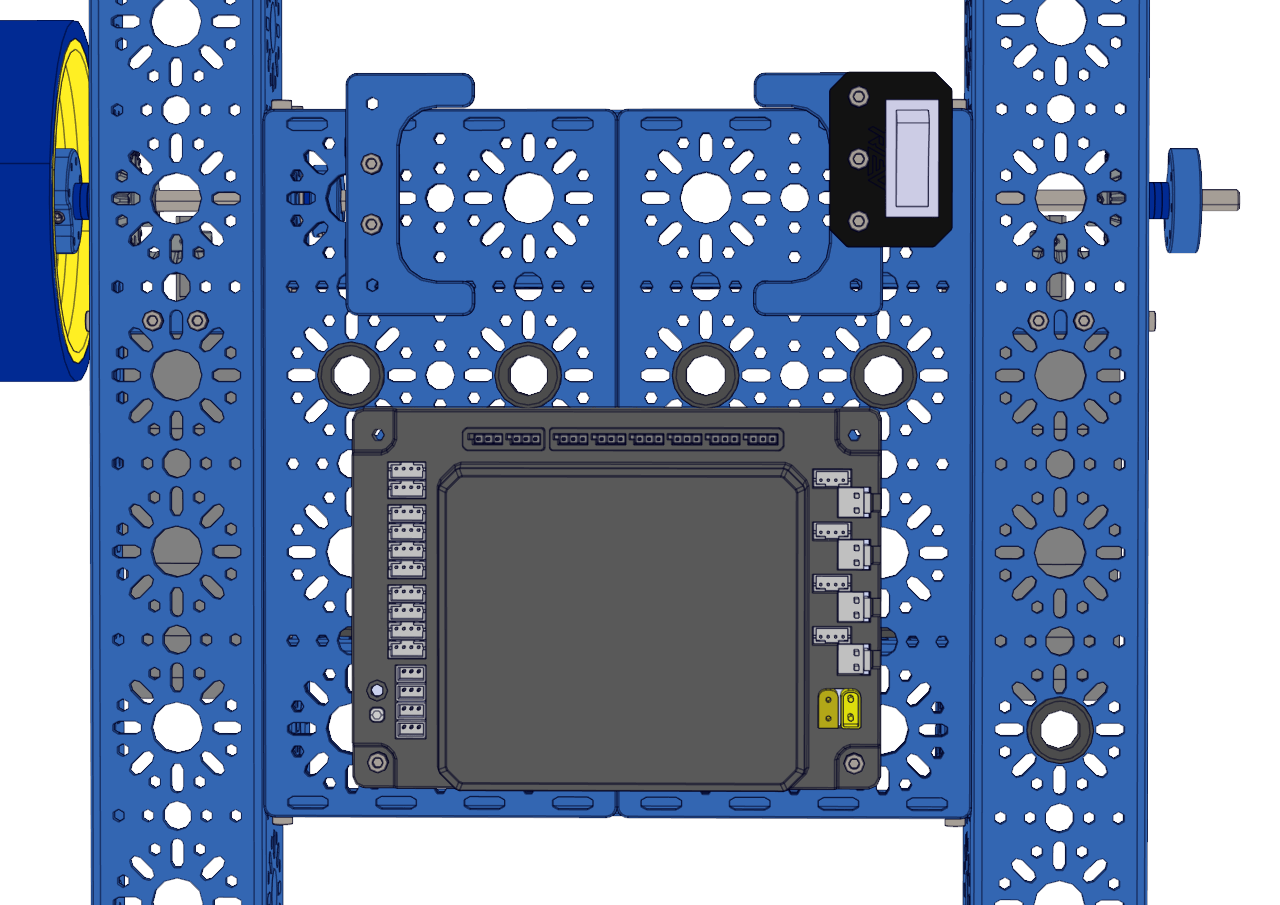
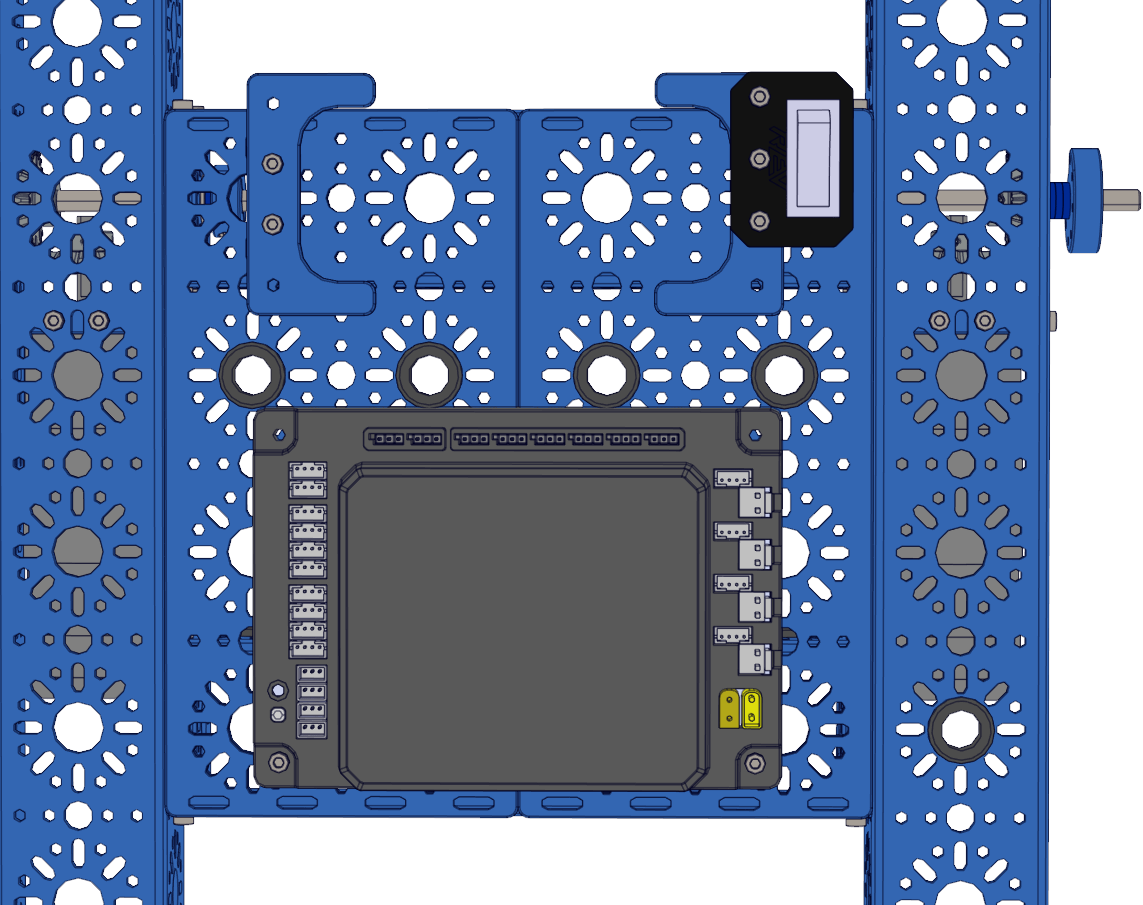
Update basic bot chassis guide upto wiring part

diff --git a/source/docs/Basic-Bot/Chassis/step10.rst b/source/docs/Basic-Bot/Chassis/step10.rst
@@ -1,0 +1,55 @@
+Step 10 - Control Hub Install
+=============================
+
+.. list-table:: Parts Required for Step 10
+        :widths: 50 25 25 150
+        :header-rows: 1
+        :align: center
+
+        * - Name
+          - Part #
+          - Qty
+          - Image
+        * - Completed Assembly from Part 9
+          - 
+          - 1
+          - 
+        * - 192mm x 96mm Flat Bracket
+          - 76066
+          - 2
+          - .. image:: images/bom/192-96-flat.png
+              :align: center
+              :width: 25%
+        * - M3 x 20mm SHCS
+          - 76209
+          - 2
+          - .. image:: images/bom/m3-20-shcs.png
+              :align: center
+              :width: 10%
+        * - M3 Kep Nut
+          - 76204
+          - 2
+          - .. image:: images/bom/m3-kep-nut.png
+              :align: center
+              :width: 10%
+        * - Control Hub
+          - REV-31-1595
+          - 1
+          - .. image:: images/bom/control-hub.png
+              :align: center
+              :width: 30%
+
+Instructions
+------------
+
+- Place the two 192mm x 96mm Flat Brackets onto the 192mm U-Channels as shown on the left.
+- Place the Control Hub with the HDMI and USB ports facing the front of the chassis. 
+- Using the M3 x 20mm SHCS and M3 Kep Nuts, secure the Control Hub and 192mm x 96mm Brackets to the chassis as shown in the right picture. 
+
+|pic1| |pic2|
+
+.. |pic1| image:: images/basicBotChassis_View14.png
+    :width: 39%
+
+.. |pic2| image:: images/basicBotChassis_View15.png
+    :width: 60%

diff --git a/source/docs/Basic-Bot/Chassis/step12.rst b/source/docs/Basic-Bot/Chassis/step12.rst
@@ -1,0 +1,51 @@
+Step 12 - Battery Clip 2
+========================
+
+.. list-table:: Parts Required for Step 12
+        :widths: 50 25 25 150
+        :header-rows: 1
+        :align: center
+
+        * - Name
+          - Part #
+          - Qty
+          - Image
+        * - Completed Assembly from Part 11
+          - 
+          - 1
+          - 
+        * - M3 x 10mm SHCS
+          - 76201
+          - 3
+          - .. image:: images/bom/m3-10-shcs.png
+              :align: center
+              :width: 10%
+        * - 25mm Standoff
+          - 76182
+          - 2
+          - .. image:: images/bom/25-standoff.png
+              :align: center
+              :width: 15%
+        * - 25mm Male to Female Standoff
+          - 76184
+          - 2
+          - .. image:: images/bom/mf-standoff.png
+              :align: center
+              :width: 15%
+        * - Battery Clip
+          - 76088
+          - 1
+          - .. image:: images/bom/battery-clip.png
+              :align: center
+              :width: 15%
+
+Instructions
+------------
+
+- From inside the back 192mm U-Channel, use 2 M3 x 10mm SHCS to screw into 2 25mm Standoffs. 
+- Place the battery clip on top of the standoffs and screw them in with the 2 Male to Female standoffs.
+- Screw the last Standoff into one of the remaining holes on the battery clip with an M3 x 10mm SHCS.
+
+.. figure:: images/basicBotChassis_View17.png
+    :align: center
+    :width: 70%

diff --git a/source/docs/Basic-Bot/Chassis/step11.rst b/source/docs/Basic-Bot/Chassis/step11.rst
@@ -1,0 +1,44 @@
+Step 11 - Battery Clip 1
+========================
+
+.. list-table:: Parts Required for Step 11
+        :widths: 50 25 25 150
+        :header-rows: 1
+        :align: center
+
+        * - Name
+          - Part #
+          - Qty
+          - Image
+        * - Completed Assembly from Part 10
+          - 
+          - 1
+          - 
+        * - M3 x 10mm SHCS
+          - 76201
+          - 4
+          - .. image:: images/bom/m3-10-shcs.png
+              :align: center
+              :width: 10%
+        * - 25mm Standoff
+          - 76182
+          - 2
+          - .. image:: images/bom/25-standoff.png
+              :align: center
+              :width: 15%
+        * - Battery Clip
+          - 76088
+          - 1
+          - .. image:: images/bom/battery-clip.png
+              :align: center
+              :width: 15%
+
+Instructions
+------------
+
+- From inside the back 192mm U-Channel, use 2 M3 x 10mm SHCS to screw into 2 25mm Standoffs. 
+- Place the battery clip on top of the standoffs and screw them in with the other 2 M3 x 10mm SHCS.
+
+.. figure:: images/basicBotChassis_View16.png
+    :align: center
+    :width: 70%

diff --git a/source/docs/Basic-Bot/Chassis/step16.rst b/source/docs/Basic-Bot/Chassis/step16.rst
@@ -1,0 +1,41 @@
+Step 16 - Omni Wheels
+=====================
+
+.. important:: This step requires pliers or an 8mm wrench.
+
+.. list-table:: Parts Required for Step 15
+        :widths: 50 25 25 150
+        :header-rows: 1
+        :align: center
+
+        * - Name
+          - Part #
+          - Qty
+          - Image
+        * - Completed Assembly from Part 14
+          - 
+          - 1
+          - 
+        * - 100mm Omni Wheel
+          - 76260
+          - 2
+          - .. image:: images/bom/omni-wheel.png
+              :align: center
+              :width: 15%
+        * - Enhanced Wheel Hub Kit
+          - 76291
+          - 2
+          - .. image:: images/bom/enhanced-hub.png
+              :align: center
+              :width: 15%
+
+Instructions
+------------
+
+- Using 3 of the M5 x 40mm SHCS, screw the Omni Wheel into the Enhanced Wheel Hub with the M5 Nyloc nuts on the other side of the Hub.
+- The Nyloc nuts will need to be secured with pliers or an 8mm wrench. Otherwise, they will spin in place.
+- Repeat for the other side.
+
+.. figure:: images/basicBotChassis_View23.png
+    :align: center
+    :width: 70%

diff --git a/source/docs/Basic-Bot/Chassis/step15.rst b/source/docs/Basic-Bot/Chassis/step15.rst
@@ -1,0 +1,38 @@
+Step 15 - Drive Wheels
+======================
+
+.. list-table:: Parts Required for Step 15
+        :widths: 50 25 25 150
+        :header-rows: 1
+        :align: center
+
+        * - Name
+          - Part #
+          - Qty
+          - Image
+        * - Completed Assembly from Part 14
+          - 
+          - 1
+          - 
+        * - 100mm Drive Wheel
+          - 76262
+          - 2
+          - .. image:: images/bom/drive-wheel.png
+              :align: center
+              :width: 15%
+        * - M3 x 12mm SHCS
+          - 76202
+          - 14
+          - .. image:: images/bom/m3-12-shcs.png
+              :align: center
+              :width: 10%
+
+Instructions
+------------
+
+- Using 7 M3 x 12mm SHCS, screw the drive wheel into the light Weight shaft hub.
+- Repeat for the other side.
+
+.. figure:: images/basicBotChassis_View20.png
+    :align: center
+    :width: 70%

diff --git a/source/docs/Basic-Bot/Chassis/step13.rst b/source/docs/Basic-Bot/Chassis/step13.rst
@@ -1,0 +1,38 @@
+Step 13 - Power Switch
+======================
+
+.. list-table:: Parts Required for Step 13
+        :widths: 50 25 25 150
+        :header-rows: 1
+        :align: center
+
+        * - Name
+          - Part #
+          - Qty
+          - Image
+        * - Completed Assembly from Part 12
+          - 
+          - 1
+          - 
+        * - M3 x 10mm SHCS
+          - 76201
+          - 3
+          - .. image:: images/bom/m3-10-shcs.png
+              :align: center
+              :width: 10%
+        * - Power Switch
+          - REV-31-1387
+          - 1
+          - .. image:: images/bom/power-switch.png
+              :align: center
+              :width: 10%
+
+
+Instructions
+------------
+
+- Screw the Power switch into the 3 standoffs using 3 M3 x 10mm SHCS. 
+
+.. figure:: images/basicBotChassis_View18.png
+    :align: center
+    :width: 70%

diff --git a/source/docs/Basic-Bot/Chassis/step14.rst b/source/docs/Basic-Bot/Chassis/step14.rst
@@ -1,0 +1,31 @@
+Step 14 - Wire Grommets 2
+=========================
+
+.. list-table:: Parts Required for Step 14
+        :widths: 50 25 25 150
+        :header-rows: 1
+        :align: center
+
+        * - Name
+          - Part #
+          - Qty
+          - Image
+        * - Completed Assembly from Part 13
+          - 
+          - 1
+          - 
+        * - Rubber Grommet
+          - 76504
+          - 5
+          - .. image:: images/bom/wire-grommet.png
+              :align: center
+              :width: 10%
+
+Instructions
+------------
+
+- Press five wire grommets into the large holes as shown in the picture below.
+
+.. figure:: images/basicBotChassis_View19.png
+    :align: center
+    :width: 70%

diff --git a/source/docs/Basic-Bot/Chassis/step9.rst b/source/docs/Basic-Bot/Chassis/step9.rst
@@ -1,0 +1,31 @@
+Step 9 - Wire Grommets 1
+========================
+
+.. list-table:: Parts Required for Step 9
+        :widths: 50 25 25 150
+        :header-rows: 1
+        :align: center
+
+        * - Name
+          - Part #
+          - Qty
+          - Image
+        * - Completed Assembly from Part 8
+          - 
+          - 1
+          - 
+        * - Rubber Grommet
+          - 76504
+          - 4
+          - .. image:: images/bom/wire-grommet.png
+              :align: center
+              :width: 10%
+
+Instructions
+------------
+
+- Press four wire grommets into the large holes as shown in the picture below. 
+
+.. figure:: images/basicBotChassis_View13.png
+    :align: center
+    :width: 70%

diff --git a/source/docs/Basic-Bot/Chassis/step7.rst b/source/docs/Basic-Bot/Chassis/step7.rst
@@ -1,5 +1,5 @@
-Step 7
-======
+Step 7 - Securing the Motor Bracket
+===================================
 
 .. list-table:: Parts Required for Step 7
         :widths: 50 25 25 150

diff --git a/source/docs/Basic-Bot/Chassis/step3.rst b/source/docs/Basic-Bot/Chassis/step3.rst
@@ -1,5 +1,5 @@
-Step 3
-======
+Step 3 - Front Idler Shaft
+==========================
 
 .. list-table:: Parts Required for Step 3
         :widths: 50 25 25 150

diff --git a/source/docs/Basic-Bot/Chassis/step6.rst b/source/docs/Basic-Bot/Chassis/step6.rst
@@ -1,5 +1,5 @@
-Step 6
-======
+Step 6 - Inserting Motors
+=========================
 
 .. list-table:: Parts Required for Step 6
         :widths: 50 25 25 150

diff --git a/source/docs/Basic-Bot/Chassis/step5.rst b/source/docs/Basic-Bot/Chassis/step5.rst
@@ -1,5 +1,5 @@
-Step 5
-======
+Step 5 - Motor Assembly
+=======================
 
 .. list-table:: Parts Required for Step 5
         :widths: 50 25 25 150
